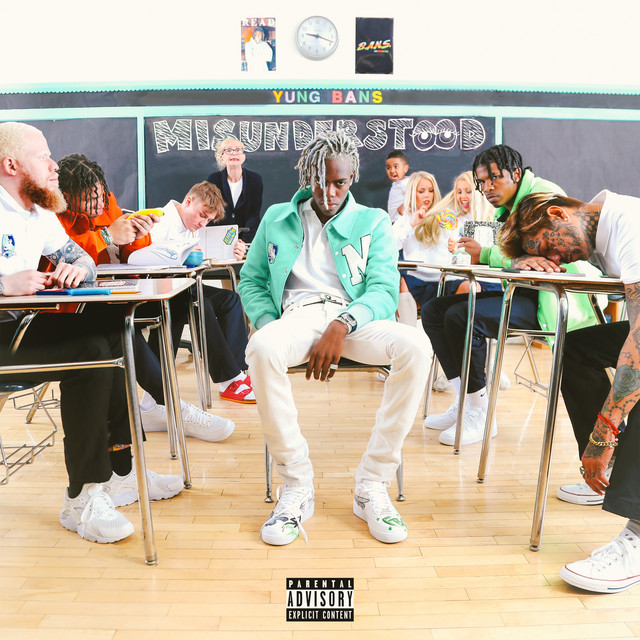
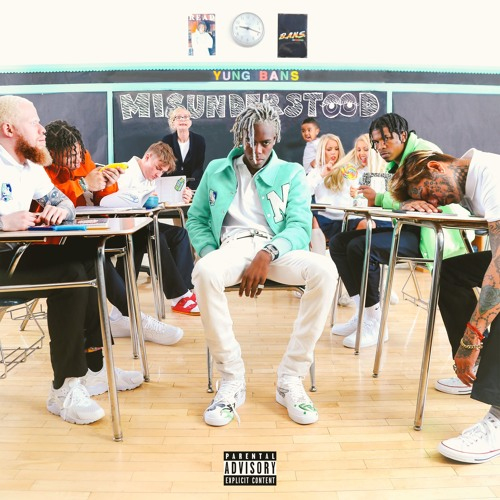
Replaced images with proper sizes, and updated index.html

diff --git a/index.html b/index.html
@@ -24,11 +24,36 @@
     <!--Header Ends Here!!!!-->
     <div class="body">
       Notable Project & Clients
-      <img src="/images/solo-boy-band.jpeg" alt="" />
-      <img src="/images/sunflowers-II-ronin-vs-vagabond.jpeg" alt="" />
-      <img src="/images/lambo-leap.jpeg" alt="" />
-      <img src="/images/misunderstood.jpeg" alt="" />
-      <img src="/images/shrine-of-solace.jpeg" alt="" />
+      <div class="artist">
+        <a href="#"> <img src="/images/solo-boy-band.jpeg" alt="" /> </a>
+        <p>Nessly - Solo Boy Band</p>
+      </div>
+      <div class="artist">
+        <a href="#">
+          <img src="/images/sunflowers-II-ronin-vs-vagabond.jpeg" alt="" />
+        </a>
+        <p>Kacey Jones - Sunflowers II Ronin VS Vagabond</p>
+      </div>
+      <div class="artist">
+        <a href="#"> <img src="/images/lambo-leap.jpeg" alt="" /> </a>
+        <p>Sen Lombardi - Lambo Leap</p>
+      </div>
+      <div class="artist">
+        <a href="#"> <img src="/images/misunderstood.jpeg" alt="" /> </a>
+        <p>Yung Bans - Misunderstood</p>
+      </div>
+      <div class="artist">
+        <a href="#"> <img src="/images/shrine-of-solace.jpeg" alt="" /> </a>
+        <p>WhoisKos - Shrine of Solace</p>
+      </div>
+      <div class="testimony">
+        <p>
+          Lorem ipsum dolor sit amet consectetur, adipisicing elit. Nobis nihil
+          vitae est id deserunt aliquid eaque illum. Eos quod inventore, sequi,
+          facilis adipisci animi dolor rem unde similique, quae omnis!
+        </p>
+        <strong>- Kacey Jones</strong>
+      </div>
       <div class="mail-list">
         <h2>Subscribe To Our Mailing List</h2>
         <p>
